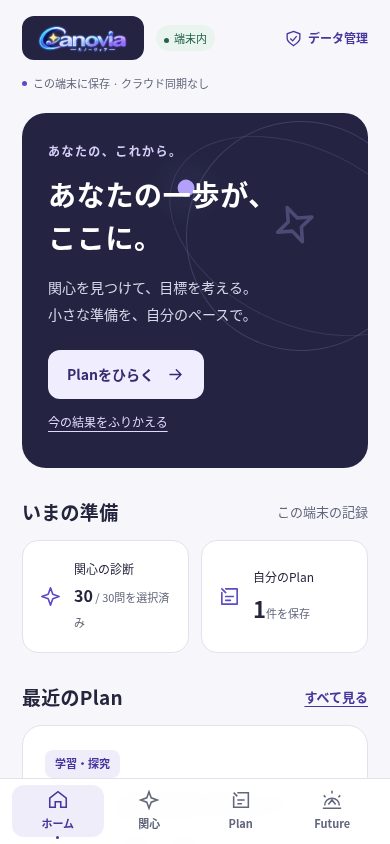
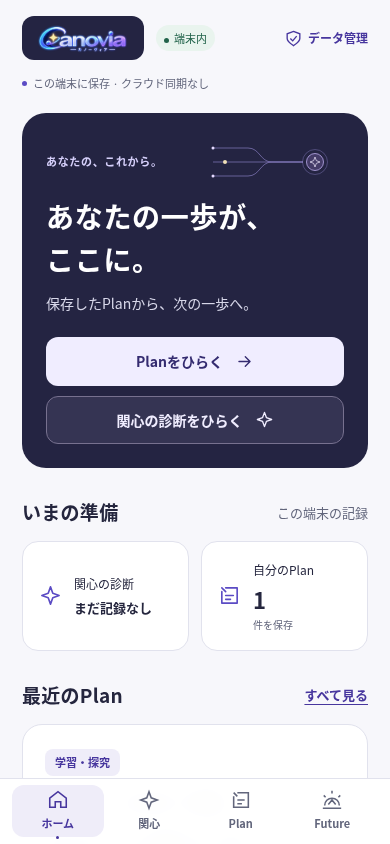
docs: collect UI-2 home comparisons, OP direction and compatibility evidence [skip ci]

diff --git a/docs/development/PRELAUNCH_PREPARATION_SHARED_DB_RELEASE_STRATEGY_2026_10_23.md b/docs/development/PRELAUNCH_PREPARATION_SHARED_DB_RELEASE_STRATEGY_2026_10_23.md
@@ -1454,3 +1454,39 @@ Linux / system Chromium `154.0.8037.57` / Playwright `1.56.1`。fixtureは合成
[1 lines of base64/hex data omitted]
 
 [円形UIの全6状態・320/390・5問全体・直前カードとの比較](../reviews/local-b-ui/README.md#円形スケールへの更新) を本人レビューに用いる。最初の4画面比較の診断Afterも更新し、直前カードを `circle-before-390.png` として保持。本人には円の大小/色、肯定左・否定右の方向、中央の独立した意味が伝わるかを画像で判断してもらう。実機操作は今回依頼しない。**Draft維持・main未統合・`PRODUCTION_NO_GO_HOLD` / `release_approved=false`**。read-access単独FAIL、Release/公開の既存未解決ゲートも維持する。
+
+### 2026-10-28 UI-2：OP世界観とホーム体験（PR #918継続・Draft）
+
+本人は円形5択UIの**デザインを承認済み**。保存値 `3→2→unknown→1→0` を含む描画/操作を再設計しない。この承認をSafari/iOS受入・Release/公開承認へ拡張しない。UI-2はCanovia-webのHomeだけを対象とし、独立worktree `Canovia-local-b-home-ui2` / local branch `feature/local-b-home-ui2` から、同PR #918のremote `feature/local-b-mobile-experience` へfast-forwardで追記する。
+
+OPの本人提示コンセプト「**すべての一歩が、未来につながる。**」を初回Homeの見出しへ採用し、小さな光が3本のレールで中心へ集まる静的SVGを添える。明るいcanvas・紺のhero・藍の操作色は維持。図案は装飾（aria-hidden/focus不可）で、animation/自動記録/通信は追加しない。既存の円形UI・保存schema・IndexedDB・JSON・採点・CSP・外部依存は変更しない。OP/Remotion project、iOS再生/SKIP、iOS #20/#22、固定HTML/pin/hashには触れない。
+
+**理念と現在の提供範囲を別に示す**。heroを「Canoviaが目指す未来」、入口を「先行版で、いまできること」と分け、初回の主要選択肢を「30問で関心を整理」と「診断なしで目標・Planを書く」の2つにする。下段のFutureカードは「将来構想」と明示し、AI支援/自動記録/外部サービス連携は先行版で未提供と説明する。これらを起動可能な機能として表示しない。公開roadmapのstatusは更新しない（本UIは未統合/未提供の候補のため）。
+
+| 実データから導く状態 | Homeの主操作 / 副操作 | 初回向け説明 |
+| --- | --- | --- |
+| 診断記録なし・Planなし | 30問の診断 / 診断なしでPlan | 上記2入口、保存範囲の短い説明、閉じた任意のBackupガイド。modal/同意強制なし |
+| 診断記録あり・選択数0〜29・Planなし | 前回の診断ページへ続ける / 診断なしでPlan | 初回ガイドは出さず、実際の選択数を表示 |
+| 30問選択済み・Planなし | 結果をふりかえる / 自分のPlan | unknownも選択数に含む。30選択を採点材料充足や能力判定完了とは表現しない |
+| Planあり（診断有無を問わない） | 最新更新Planをひらく / 関心の診断 | 実件数・最近のPlanを表示。過去に別Planのeditorを開いていても、Home主操作は表示対象の最新Planを明示指定 |
+
+状態は既存の診断/Planから算出するだけで、新しい初回flag/保存項目や個人の行動履歴を作らない。Home表示・320/390のlayout検査・装飾描画の前後で全state/revision/時刻が変わらないことを確認。Cは「入力したPlan」「この画面だけのPreview」と区別し、reloadで消える既存仕様を保持する。
+
+#### UI-2ローカル検証証拠
+
+製品/テストSource **`3c2d46e0baa794feb69b0319dc7fe59cd31003cb`**。Linux Chromium 154 / Playwright 1.56.1。前候補30bda7b5比の製品差分は `preparation-local/src/app.mjs`（Home）/`style.css`（Home専用）の2件。診断描画・bindDiagnosis・円形CSSをbyte比較し一致。採点/data/model/Repository/backup/codec/Headers/配布・公開wrapperもbyte不変、24asset中22asset hash一致。見出し変更に追随する既存4試験の期待値は新しい全文へ厳密更新し、境界/FAIL判定を削除しない。
+
+| 判定 | 根拠・範囲 |
+| --- | --- |
+| PASS | 新 `tests/browser/preparation_static_home.mjs` を既存B/C browser回帰から呼び出す。実UI操作で初回→Plan入口（診断非作成）→2回答/前回ページ→30問→結果→Plan保存を検証。各状態320/390で2入口がnavより上・44px以上・横overflowなし、レールanimation 0、初回ガイドは初回だけ |
+| PASS | 2件の合成Planで最新更新Planを選び、以前開いたeditorよりHome主操作の指定Planが優先される。B reloadで2件保持、C reloadで0件/初回へ戻る。Home描画前後で全stateが同一 |
+| PASS | 主要4 Home状態×B/Cをaxe-core 4.11.0対象WCAG2 A/AA・2.1 AA tagsで検査、検出違反0。既存mobile UI試験の主要5画面・320/375/390/430/1280・Space/矢印/Reduce Motion・円形値/混在JSON往復もPASS。VoiceOver実受入の証明ではない |
+| PASS | B/Cの30問・採点133参照・結果・Plan編集・JSON実download/preview/confirm・quota/abort/conflict保持・B browser process再起動・C非保存・Origin/CSP/SW/404/no-store等の既存回帰 |
+| PASS | core5＋backup5、配布security12＋Render offline計画11、B二重生成ZIP一致とB/C ZIP検証。PHP参照133ケースは同日生成済み・不変のbank/scorerに対応するものを再利用 |
+| PASS（Web限定） | 旧30bda7b5の実UIで作った専用の合成「2回答/step2」profileと「診断なし/Plan1件」profileをbrowser終了後に同一loopback Originで新Homeへ再開。**全state/ID/revision/時刻が完全一致**。DB clear/migrationなし。iOS default store upgradeの証明にはしない |
+| PASS（限定） | 読み込み済み画面でoffline Plan保存/Exportの既存試験を維持。cold offline起動/reloadを保証せずSWを追加しない |
+| NOT_RUN / NOT_TESTED | GitHub Actions（無料枠を尊重し全commit `[skip ci]`、dispatch/re-run/課金変更なし）。新HomeのSafari/WebKit/WKWebView/VoiceOver/実機、実Render、最終OP映像との色/カット接続・OP終了/SKIP→Homeは未検証。再生/遷移callbacks自体を今回は実装しない |
+
[1 lines of base64/hex data omitted]
+
+[Homeの3状態・320/390 Before/After・診断済み・desktop](../reviews/local-b-ui/README.md#ui-2op世界観とホーム体験) は実アプリ/合成データの画面証拠。OP映像は別sessionで制作中であり、提示されたコンセプトからHomeの静的図案を実装した。最終映像のasset/Remotionにはアクセス・変更していない。本人の最終判断は **レールの控えめさ/OPとの調和、理念と現機能の区別、初回と既存利用の優先順位**。実機操作は今回は依頼しない。**Draft維持・main未統合・`PRODUCTION_NO_GO_HOLD` / `release_approved=false`**、既存read-access単独FAILやRelease/一般公開の未解決ゲートは維持する。

diff --git a/docs/README.md b/docs/README.md
@@ -2,7 +2,7 @@
 
 ## 2026-10-26 Local-first Preparation-only（開発候補・公開HOLD）
 
-- [2026-10-28 新UI候補の画面比較](reviews/local-b-ui/README.md): Home/診断/結果/PlanのBefore/After。Draft限定・main未統合・iOS pin変更なし。仕様と検証境界は既存戦略§19へ集約。
+- [2026-10-28 新UI候補の画面比較](reviews/local-b-ui/README.md): UI-2 HomeのOP世界観/初回・再開導線と、本人承認済み円形診断のBefore/After。Draft限定・main未統合・iOS pin変更なし。仕様と検証境界は既存戦略§19へ集約。
 
 - [既存先行公開戦略 §19](development/PRELAUNCH_PREPARATION_SHARED_DB_RELEASE_STRATEGY_2026_10_23.md#19-2026-10-26-local-first-preparation-only開発方針): 専用IndexedDBのBと保存なしC、固定static配布/通信境界、Mac Safariの最小受入票、専用Render Static Site・start.rpf-canovia.comを本人が方式/長期Originとして選定（実配信未受入）、Welcome/Laravel構成・Cloudflare/AWS費用比較、段階移行と公開後Operations、Render Phase 1の固定SHA/ZIP設定票・オフラインstage/負例CI・作成前費用確認票。Hosting実効受入を合成PASSに昇格しない。Canonical/e858の安全ゲートは別に保持。2026-10-27本人申告のSafari基本操作・再起動保持・Export/Importは成功範囲限定で記録。取得済みrpf-canovia.com（本人申告）に合わせ、選定Originはstart.rpf-canovia.com／将来候補app.rpf-canovia.com。旧canovia.comは非所有で除外。Cookie/DNS・固定Source設定パケットと5承認ゲートを§19へ集約。初回成功Deploy前のSource/tree・Neutral ZIP・Origin適用候補の独立hash/全25files検証、負例CI、本人操作/停止票も同節に集約。新専用Siteのoff/off・標準URLdisabled・Build exit2はread-only確認、成功Deployなし。B・選定Origin限定のソースBuild認可と使い捨てcheckoutでの実CLI検証も同節へ記録。ソース有効化はRender設定変更/Deployの承認ではない。実HTTPS/未実施実機項目/公開GOは未受入。
 
